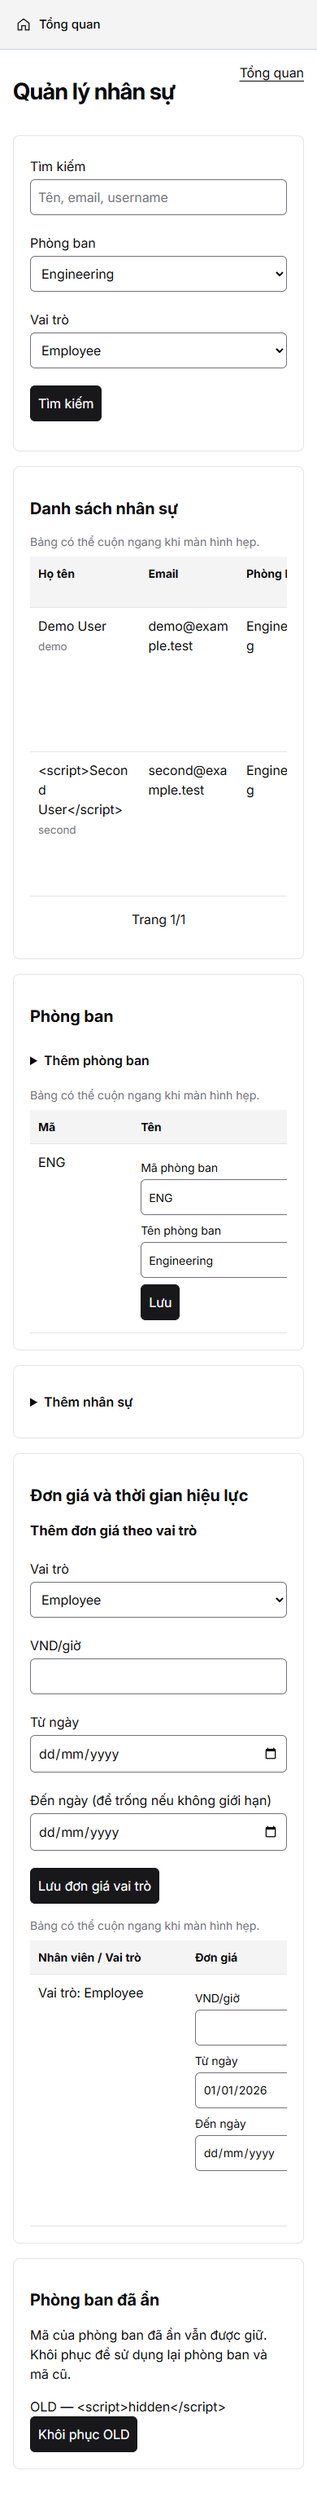
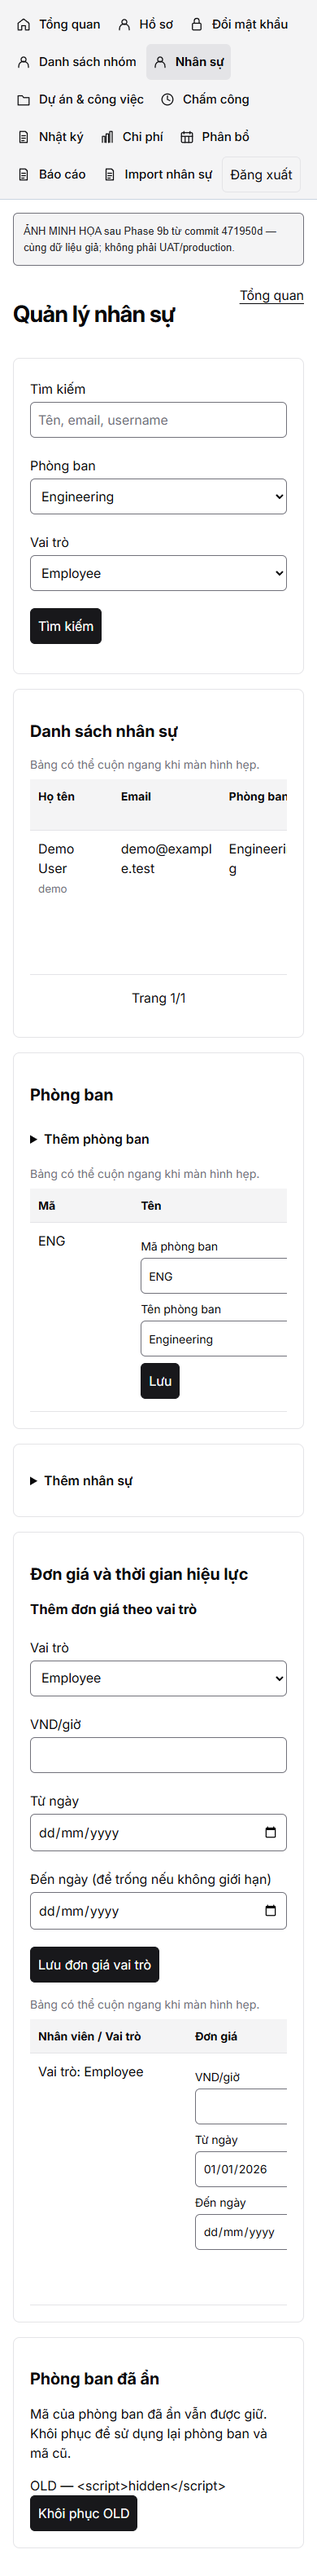
docs(pm-phase9b): add reconstructed before and after comparison

diff --git a/docs/PHASE9B_UI_COMPARISON.md b/docs/PHASE9B_UI_COMPARISON.md
@@ -1,0 +1,30 @@
+# Phase 9b — so sánh giao diện minh họa
+
+Tạo ngày 06/10/2026 theo yêu cầu người dùng cho phép tự tạo ảnh phù hợp.
+**Ảnh trước là tái dựng từ commit `1dc761f`, không phải ảnh gốc 05/10/2026.**
+Ảnh sau từ commit `471950d`. Hai phiên bản dùng cùng dữ liệu giả từ các fixture
+Smarty local; menu đầy đủ chỉ phục vụ minh họa, không chứng minh quyền của tài khoản.
+Không truy cập production, không ghi database, không thay đổi mã ứng dụng.
+
+Chụp bằng Chromium/Playwright: desktop 1440×1000, mobile 390×844, full-page.
+Mỗi ảnh có nhãn nguồn. Đồng hồ trình duyệt được kiểm soát để chụp trạng thái ban đầu;
+đây không phải kiểm thử polling hoặc UAT. Kiểm tra lúc chụp: 36/36 không có pageerror
+hay tràn ngang toàn trang; bảng có thể cuộn riêng. Không thay thế regression Phase 9.
+
+| Trang | Trước — tái dựng desktop | Sau — desktop | Mobile trước / sau |
+| --- | --- | --- | --- |
+| Tổng quan | ![](screenshots/before/overview-desktop.png) | ![](screenshots/after/overview-desktop.png) | [Trước](screenshots/before/overview-mobile.png) / [Sau](screenshots/after/overview-mobile.png) |
+| Nhân sự | ![](screenshots/before/users-desktop.png) | ![](screenshots/after/users-desktop.png) | [Trước](screenshots/before/users-mobile.png) / [Sau](screenshots/after/users-mobile.png) |
+| Dự án | ![](screenshots/before/projects-desktop.png) | ![](screenshots/after/projects-desktop.png) | [Trước](screenshots/before/projects-mobile.png) / [Sau](screenshots/after/projects-mobile.png) |
+| Chấm công | ![](screenshots/before/timesheets-desktop.png) | ![](screenshots/after/timesheets-desktop.png) | [Trước](screenshots/before/timesheets-mobile.png) / [Sau](screenshots/after/timesheets-mobile.png) |
+| Nhật ký | ![](screenshots/before/audit-desktop.png) | ![](screenshots/after/audit-desktop.png) | [Trước](screenshots/before/audit-mobile.png) / [Sau](screenshots/after/audit-mobile.png) |
+| Chi phí | ![](screenshots/before/costs-desktop.png) | ![](screenshots/after/costs-desktop.png) | [Trước](screenshots/before/costs-mobile.png) / [Sau](screenshots/after/costs-mobile.png) |
+| Phân bổ | ![](screenshots/before/allocations-desktop.png) | ![](screenshots/after/allocations-desktop.png) | [Trước](screenshots/before/allocations-mobile.png) / [Sau](screenshots/after/allocations-mobile.png) |
+| Báo cáo | ![](screenshots/before/reports-desktop.png) | ![](screenshots/after/reports-desktop.png) | [Trước](screenshots/before/reports-mobile.png) / [Sau](screenshots/after/reports-mobile.png) |
+| Import | ![](screenshots/before/imports-desktop.png) | ![](screenshots/after/imports-desktop.png) | [Trước](screenshots/before/imports-mobile.png) / [Sau](screenshots/after/imports-mobile.png) |
+
+Những ảnh này minh họa thay đổi bố cục, màu nút, sidebar, KPI, bảng nhân sự,
+card dự án, sổ ghi công, lưới tuần, tab chi phí và stepper import. Các chuỗi kiểm
+thử escaping còn hiển thị như chữ thuộc dữ liệu giả, không phải mã thực thi.
+Ảnh gốc vẫn chưa được cung cấp; không gọi bộ tái dựng này là bằng chứng trước/sau
+production. Các ảnh sau cũ từ kiểm thử vẫn có thể truy xuất trong lịch sử Git.

diff --git a/docs/screenshots/after/README.md b/docs/screenshots/after/README.md
@@ -1,25 +1,5 @@
-# Phase 9b — ảnh sau từ fixture tự động
+# Phase 9b — ảnh minh họa trước/sau
 
-Ngày lưu: 06/10/2026. Các ảnh dùng dữ liệu giả từ bộ browser Phase 9b đã chạy đạt;
-không phải ảnh UAT hoặc ảnh production. Chuỗi XSS hiển thị như chữ là dữ liệu kiểm
-thử escaping, không phải nội dung thực thi. Không có mật khẩu/token/dump trong ảnh.
+Bộ 36 ảnh dùng dữ liệu giả, chụp local ngày 06/10/2026. Trước tái dựng từ 1dc761f; sau từ 471950d. Không phải ảnh gốc 05/10/2026, UAT hay production.
 
-Mỗi trang có bản desktop và mobile; tên file tương ứng bên dưới. Các nguồn nằm
-trong `.local/`, ảnh được lưu ở đây để giữ bằng chứng sau khi dọn fixture local.
-
-| Trang | Desktop | Mobile |
-| --- | --- | --- |
-| Tổng quan | [overview-desktop.png](overview-desktop.png) | [overview-mobile.png](overview-mobile.png) |
-| Nhân sự | [users-desktop.png](users-desktop.png) | [users-mobile.png](users-mobile.png) |
-| Dự án | [projects-desktop.png](projects-desktop.png) | [projects-mobile.png](projects-mobile.png) |
-| Chấm công | [timesheets-desktop.png](timesheets-desktop.png) | [timesheets-mobile.png](timesheets-mobile.png) |
-| Nhật ký | [audit-desktop.png](audit-desktop.png) | [audit-mobile.png](audit-mobile.png) |
-| Chi phí | [costs-desktop.png](costs-desktop.png) | [costs-mobile.png](costs-mobile.png) |
-| Phân bổ | [allocations-desktop.png](allocations-desktop.png) | [allocations-mobile.png](allocations-mobile.png) |
-| Báo cáo | [reports-desktop.png](reports-desktop.png) | [reports-mobile.png](reports-mobile.png) |
-| Import | [imports-desktop.png](imports-desktop.png) | [imports-mobile.png](imports-mobile.png) |
-
-Nhân sự có modal/native fallback; Nhật ký/Báo cáo/Import có bảng cuộn riêng ở mobile.
-Ảnh không cho thấy cột ngoài viewport không có nghĩa cột đã bị xóa.
-Người dùng cần chụp thêm ảnh app thật với dữ liệu giả sau UAT và ghi rõ provenance.
-Chưa có đủ ảnh trước gốc để tạo bảng so sánh before/after thật cho cả 9 trang.
+Xem nguồn, giới hạn và bảng đủ 9 trang tại [PHASE9B_UI_COMPARISON.md](../../PHASE9B_UI_COMPARISON.md).

diff --git a/docs/screenshots/before/README.md b/docs/screenshots/before/README.md
@@ -1,10 +1,5 @@
-# Phase 9b — ảnh trước gốc còn thiếu
+# Phase 9b — ảnh minh họa trước/sau
 
-Các ảnh giao diện thật 05/10/2026 được cung cấp trong hội thoại nhưng chưa có bộ
-file gốc của cả 9 trang tại đường dẫn này. Không dựng lại giao diện cũ rồi coi đó
-là ảnh trước thật. Ảnh fixture cũ hoặc ảnh chụp giữa các bước cũng không thay thế
-bộ ảnh baseline này.
+Bộ 36 ảnh dùng dữ liệu giả, chụp local ngày 06/10/2026. Trước tái dựng từ 1dc761f; sau từ 471950d. Không phải ảnh gốc 05/10/2026, UAT hay production.
 
-Cần bổ sung file ảnh gốc đã ẩn thông tin nhạy cảm, hoặc người dùng xác nhận chấp
-nhận ghi thiếu bằng chứng trước. Cho tới lúc đó, bảng before/after 9 trang chưa
-hoàn tất. Ảnh sau giả lập được ghi riêng tại ../after/README.md.
+Xem nguồn, giới hạn và bảng đủ 9 trang tại [PHASE9B_UI_COMPARISON.md](../../PHASE9B_UI_COMPARISON.md).

diff --git a/docs/PROGRESS.md b/docs/PROGRESS.md
@@ -1,5 +1,14 @@
 # DeraSoft PM — Progress
 
+## Phase 9b — reconstructed comparison completed — 2026-10-06
+
+User authorized creating suitable images. Added 18 reconstructed before captures
+from 1dc761f and refreshed 18 after captures from 471950d with matching synthetic
+fixtures; desktop/mobile for all nine pages. See [comparison](PHASE9B_UI_COMPARISON.md).
+Playwright capture: 36/36 without pageerror or whole-page horizontal overflow.
+Original 05/10 images remain unavailable; these labeled illustrations are not UAT
+or production evidence. No application/DB change, push or deployment.
+
 ## Phase 9b — approved local integration — 2026-10-06
 
 After explicit confirmation “tôi đồng ý hãy tiếp tục”, merged

diff --git a/docs/DEPLOY_LOG.md b/docs/DEPLOY_LOG.md
@@ -290,3 +290,8 @@ ENGINE conversion. Schema rollback and a whole-DB restore can discard post-backu
 and break import provenance, so neither is an automatic rollback action. If data recovery
 is necessary, stop writes and agree a separately authorized recovery plan with the operator.
 Record rollback file version, whether writes occurred, outcome and unresolved data issues.
+# Screenshot supplement — 2026-10-06
+
+Completed the user-authorized [illustrative comparison](PHASE9B_UI_COMPARISON.md):
+36 local captures, reconstructed before and synthetic after, with source labels.
+No new runtime files or deployment action; original screenshots remain unavailable.

diff --git a/docs/UAT_FINAL_LOCAL.md b/docs/UAT_FINAL_LOCAL.md
@@ -77,3 +77,8 @@ Người kiểm tra: người dùng; ngày: 06/10/2026;
 version/commit: ______; lỗi còn mở: ______; quyết định: ______.
 Sau nghiệm thu, người dùng xem DEPLOY_LOG.md rồi tự quyết định deployment thủ công.
 Post-deploy smoke trong DEPLOY_LOG.md là checklist khác và chỉ được tick sau deploy.
+# Screenshot supplement — 2026-10-06
+
+User authorized synthetic illustrations: [nine-page before/after comparison](PHASE9B_UI_COMPARISON.md).
+Before is reconstructed from 1dc761f; after is 471950d. These do not replace user
+acceptance, missing original images or unrecorded per-case UAT results.
